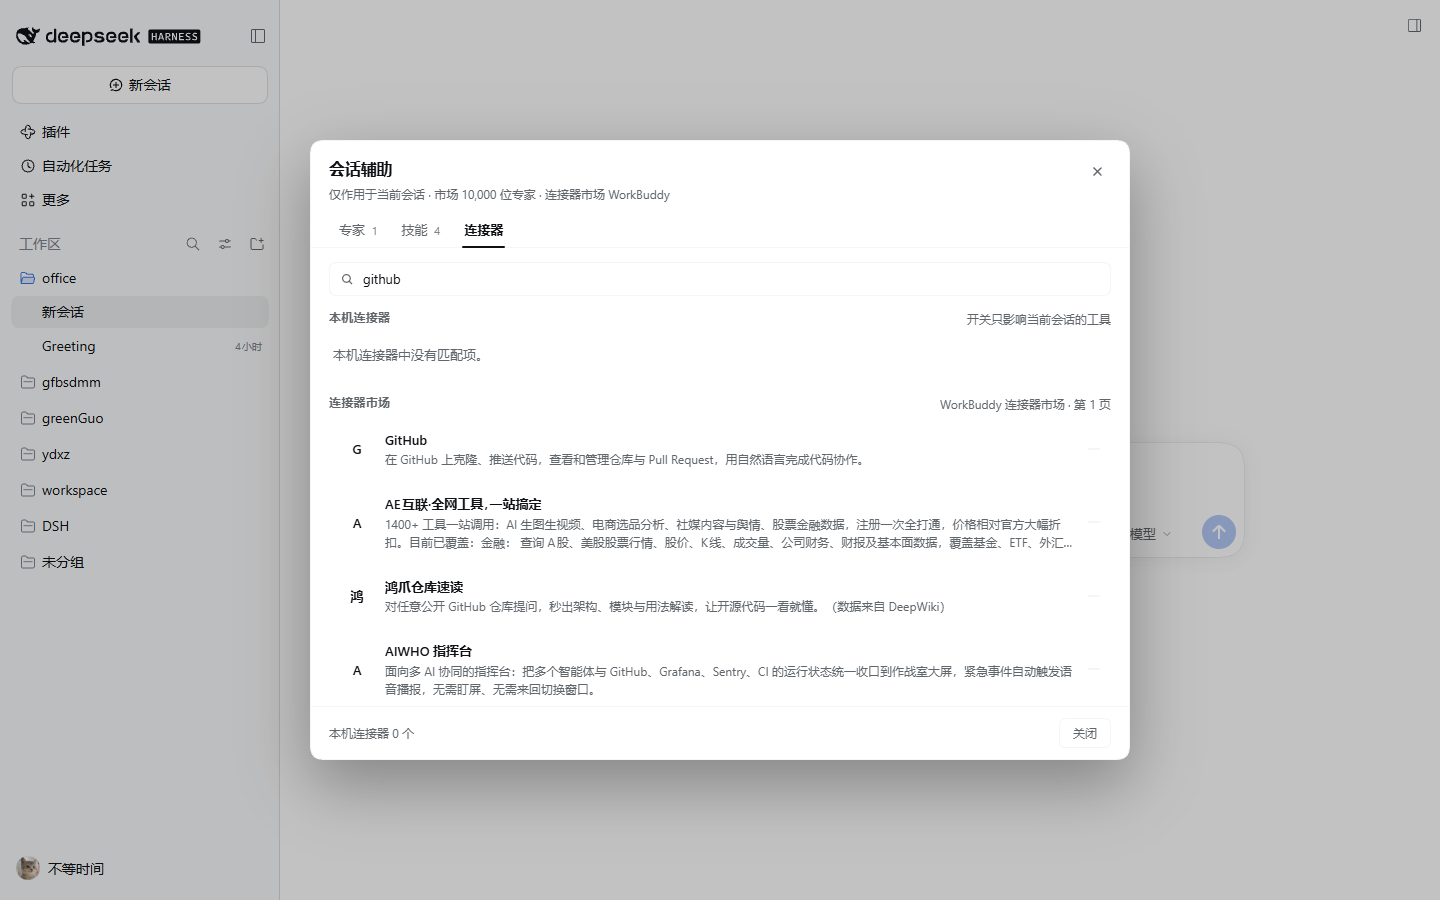
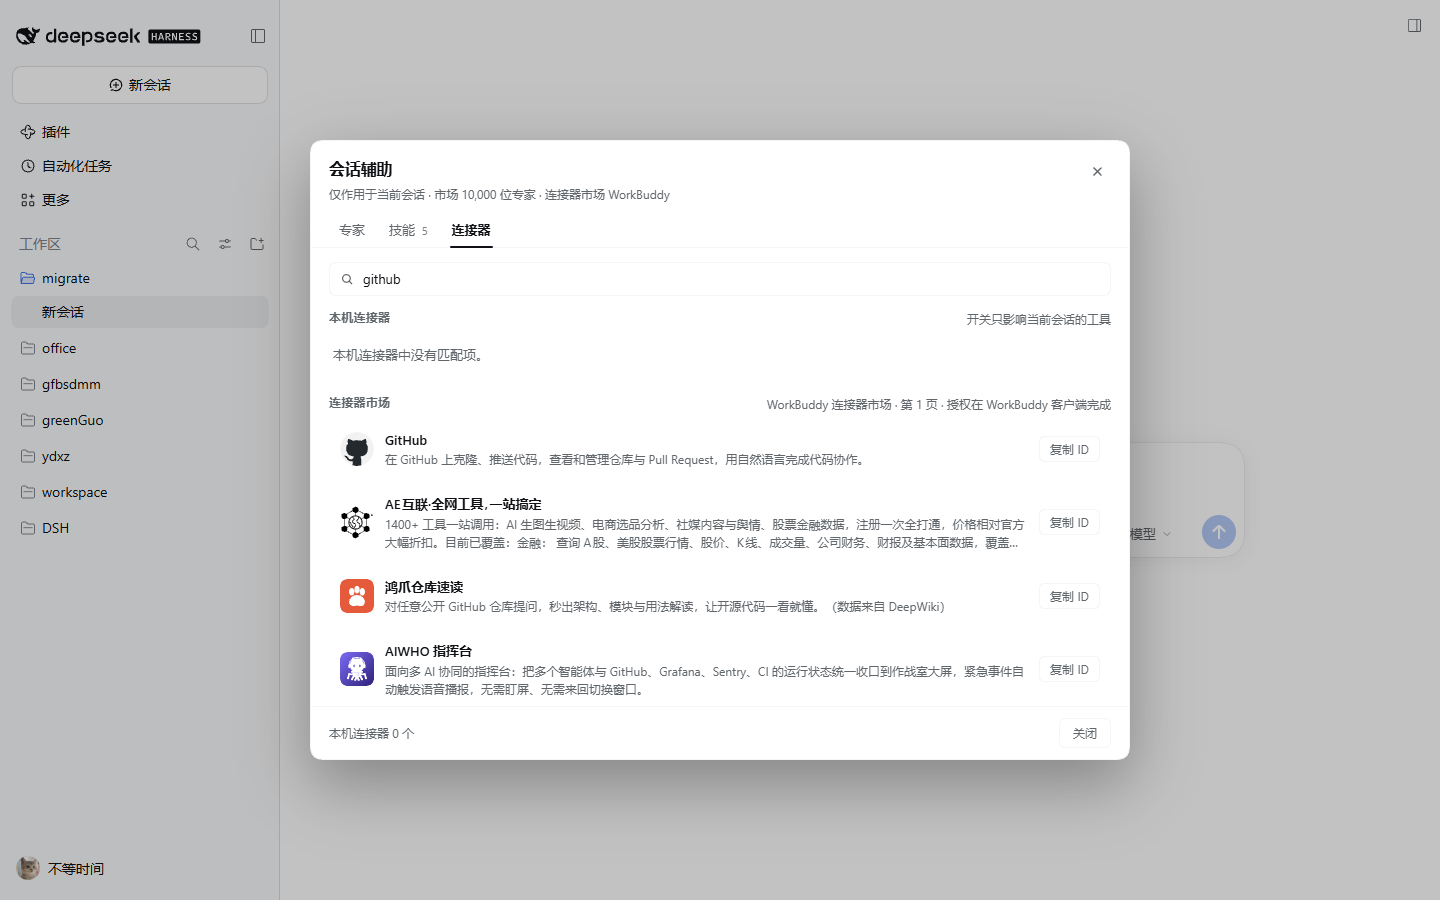
fix: release web routes on plugin reload and harden agent access

diff --git a/lib/client.js b/lib/client.js
@@ -374,8 +374,22 @@ window.__ModuleLoader__.load({
 
     function CatalogRow(props) {
       var item = props.item
+      var copiedPair = React.useState(false)
+      var copied = copiedPair[0]
+      var setCopied = copiedPair[1]
+      var copyId = function () {
+        try {
+          if (navigator !== null && navigator !== undefined && navigator.clipboard !== undefined) {
+            void navigator.clipboard.writeText(String(item.id ?? ''))
+          }
+        } catch (error) {
+          // Clipboard may be unavailable in a non-secure context.
+        }
+        setCopied(true)
+        setTimeout(function () { setCopied(false) }, 1600)
+      }
       return h('div', { className: 'wbh-conn' },
-        catalogIcon(item.name),
+        item.iconVisible ? h('div', { className: 'wbh-avatar' }, item.icon ? h('img', { src: item.icon, alt: '', loading: 'lazy' }) : h('span', null, initial(item.name))) : catalogIcon(item.name),
         h('div', { className: 'wbh-conn__text' },
           h('div', { className: 'wbh-conn__name' },
             h('span', { title: item.name }, item.name),
@@ -383,9 +397,11 @@ window.__ModuleLoader__.load({
             item.category ? h(Badge, null, item.category) : null,
             item.tools ? h(Badge, { kind: 'tools' }, item.tools + ' 工具') : null),
           h('div', { className: 'wbh-conn__desc', title: item.summary }, item.summary || item.vendor || '')),
-        item.homepage
-          ? h('a', { className: 'wbh-link', href: item.homepage, target: '_blank', rel: 'noopener noreferrer' }, '了解')
-          : h('span', { className: 'wbh-badge' }, item.vendor || ''))
+        item.action === 'copy'
+          ? h('button', { type: 'button', className: 'wbh-link', title: '复制连接器 ID：' + (item.id ?? ''), onClick: copyId }, copied ? '已复制' : '复制 ID')
+          : item.homepage
+            ? h('a', { className: 'wbh-link', href: item.homepage, target: '_blank', rel: 'noopener noreferrer' }, '了解')
+            : h('span', { className: 'wbh-badge' }, item.vendor || ''))
     }
 
     function PickerDialog(props) {
@@ -991,7 +1007,7 @@ window.__ModuleLoader__.load({
           h('div', { className: 'wbh-section__head' },
             h('h3', { className: 'wbh-section__title' }, '连接器市场'),
             h('span', { className: 'wbh-sub' }, catSource === 'workbuddy'
-              ? 'WorkBuddy 连接器市场 · 第 ' + catPage + ' 页'
+              ? 'WorkBuddy 连接器市场 · 第 ' + catPage + ' 页 · 授权在 WorkBuddy 客户端完成'
               : catSource === 'local' ? '本地快照（未登录 WorkBuddy）' : '')),
           catCategories.length === 0 ? null : h('div', { className: 'wbh-chips' },
             h('button', { type: 'button', className: 'wbh-chip', 'data-on': catCategory === null ? '1' : '0', onClick: function () { setCatCategory(null) } }, '全部'),
@@ -1010,7 +1026,22 @@ window.__ModuleLoader__.load({
               ? h('div', { className: 'wbh-empty wbh-empty--tight' }, '目录中没有匹配的连接器。')
               : h('div', { className: 'wbh-list' },
                 catItems.map(function (item) {
-                  return h(CatalogRow, { key: item.id, item: item })
+                  return h(CatalogRow, {
+                    key: item.id,
+                    item: {
+                      id: item.id,
+                      name: item.name,
+                      vendor: item.vendor,
+                      category: item.category,
+                      summary: item.summary,
+                      homepage: catSource === 'local' ? item.homepage : null,
+                      connected: item.connected,
+                      tools: item.tools,
+                      action: catSource === 'local' ? 'copy' : 'copy',
+                      iconVisible: catSource === 'workbuddy',
+                      icon: item.icon,
+                    },
+                  })
                 })),
           catHasMore
             ? h('div', { className: 'wbh-more' },

diff --git a/lib/webui.js b/lib/webui.js
@@ -167,6 +167,17 @@ export function registerWebUi(ctx, deps) {
   if (typeof ctx?.inject !== 'function') return
   const categories = createCategoryCache(deps.market)
   ctx.logger?.info?.('workbuddy-helper: registering web UI routes')
+  const routeDisposers = []
+  const releaseRoutes = () => {
+    while (routeDisposers.length > 0) {
+      const dispose = routeDisposers.pop()
+      try {
+        dispose()
+      } catch {
+        // A route may already have been removed by the host.
+      }
+    }
+  }
   try {
     ctx.inject(['webServer'], scoped => {
       const webServer = scoped?.webServer
@@ -174,7 +185,25 @@ export function registerWebUi(ctx, deps) {
         ctx.logger?.warn?.('workbuddy-helper: webServer.register is unavailable')
         return
       }
-      const register = webServer.register.bind(webServer)
+      // HMR / plugin reload tears down the old fiber but keeps the shared
+      // webServer alive. Dispose our previous routes first, then make sure the
+      // new scoped context releases these routes when it goes inactive;
+      // otherwise stale handlers keep answering with a disposed ctx and the
+      // panel sees "cannot get required service ... in inactive context".
+      releaseRoutes()
+      try {
+        if (typeof scoped.effect === 'function') {
+          scoped.effect(() => () => releaseRoutes(), 'workbuddy-helper: web routes')
+        }
+      } catch {
+        // Older hosts may not expose effect on the injected scope; the root
+        // context effect below still covers plugin unload.
+      }
+      const register = route => {
+        const dispose = webServer.register(route)
+        if (typeof dispose === 'function') routeDisposers.push(dispose)
+        return dispose
+      }
       try {
       const panelState = async sessionId => {
         const state = await deps.sessions.panelState(sessionId)
@@ -547,6 +576,13 @@ export function registerWebUi(ctx, deps) {
     })
   } catch (error) {
     ctx.logger?.warn?.('workbuddy-helper: web UI routes failed: %s', String(error))
+  }
+  try {
+    if (typeof ctx.effect === 'function') {
+      ctx.effect(() => () => releaseRoutes(), 'workbuddy-helper: dispose web routes')
+    }
+  } catch {
+    // The scoped effect above is the primary path.
   }
 }
 

diff --git a/lib/session.js b/lib/session.js
@@ -19,6 +19,24 @@ function defaultSkills() {
  * previous persona untouched.
  */
 export class SessionManager {
+  /** Agent registry access must never throw from a disposing plugin context. */
+  getAgent(sessionId) {
+    try {
+      return this.ctx.agents?.get?.(sessionId)
+    } catch {
+      return undefined
+    }
+  }
+
+  listAgents() {
+    try {
+      const listed = this.ctx.agents?.list?.()
+      return Array.isArray(listed) ? listed : []
+    } catch {
+      return []
+    }
+  }
+
   constructor(options) {
     this.ctx = options.ctx
     this.market = options.market
@@ -128,7 +146,7 @@ export class SessionManager {
       const before = structuredClone(state)
       const resolved = await this.resolveExpert(expertId)
       const pkg = await this.bundles.ensure(resolved.expert)
-      const agent = this.ctx.agents.get(sessionId)
+      const agent = this.getAgent(sessionId)
 
       state.expert = {
         id: resolved.expert.id,
@@ -240,7 +258,7 @@ export class SessionManager {
   }
 
   async listSkills(sessionId) {
-    const agent = this.ctx.agents.get(sessionId)
+    const agent = this.getAgent(sessionId)
     if (agent === undefined) throw new Error(`session is not live: ${sessionId}`)
     const state = await this.loadState(sessionId)
     const live = this.live.get(sessionId)
@@ -270,7 +288,7 @@ export class SessionManager {
   async panelState(sessionId) {
     const state = await this.loadState(sessionId)
     const live = this.live.get(sessionId)
-    const agent = this.ctx.agents.get(sessionId)
+    const agent = this.getAgent(sessionId)
     const cwd = agent?.session?.header?.cwd ?? process.cwd()
     let global = []
     try {
@@ -319,7 +337,7 @@ export class SessionManager {
   }
 
   async reconcile() {
-    for (const agent of this.ctx.agents.list()) {
+    for (const agent of this.listAgents()) {
       if (!this.live.has(agent.id)) {
         await this.onAgentCreated(agent).catch(() => undefined)
       }

diff --git a/lib/connectors.js b/lib/connectors.js
@@ -315,16 +315,11 @@ export function createConnectorController(ctx, options = {}) {
   function reapply(agent) {
     if (disposed) return
     if (agent !== undefined) return applyToAgent(agent)
+    // Only agents seen through lifecycle events are tracked. Calling
+    // ctx.get('agents') from a plugin scope that may already be inactive
+    // throws "cannot get required service ... in inactive context" during
+    // hot reloads, so never use the registry as a safety net here.
     for (const candidate of live) void applyToAgent(candidate)
-    try {
-      const registry = typeof ctx?.get === 'function' ? ctx.get('agents') : undefined
-      const listed = typeof registry?.list === 'function' ? registry.list() : []
-      if (Array.isArray(listed)) {
-        for (const candidate of listed) void applyToAgent(candidate)
-      }
-    } catch {
-      // The registry is optional; lifecycle events already track agents.
-    }
     return Promise.resolve()
   }
 

diff --git a/lib/portal.js b/lib/portal.js
@@ -51,7 +51,7 @@ function normalizeBuddyConnector(item) {
     version: typeof item?.version === 'string' ? item.version : null,
     homepage: typeof item?.homepage === 'string' ? item.homepage : null,
     tools: Number(item?.tool_count ?? 0) || 0,
-    connected: item?.connected === true,
+    connected: item?.connected === true || item?.is_connected === true,
     source: 'workbuddy',
   }
 }

diff --git a/docs/INSTALLATION-AND-TEST-REPORT.md b/docs/INSTALLATION-AND-TEST-REPORT.md
@@ -197,7 +197,7 @@ categories      -> categories / categoryId
 npm test
 ```
 
-结果：**26/26 通过**。新增覆盖：
+结果：**27/27 通过**。新增覆盖：
 
 - 在线市场字段映射；
 - `PortalMarket` 的 URL、Bearer 头、请求体、`get-by-ids`、分类；
@@ -349,7 +349,22 @@ tool_result:
 
 未执行：headless profile 没有 `DEEPSEEK_API_KEY`。工具管线、提示段、技能目录用本地 Messages 兼容假模型验证，不消耗真实额度。
 
-### 5.10 第三轮：会话辅助更名与 WorkBuddy 市场（v0.4.5）
+### 5.11 热更新残留路由事故（v0.4.6）
+
+用户更新后反馈：面板常驻 `cannot get required service "agents" in inactive context`、专家切换无响应、技能市场仍返回 404。
+
+根因不是 API 或 404 本身，而是 `webServer.register()` 返回的 disposer 被丢弃：插件热更新时旧 fiber 被销毁，但共享 webServer 上的旧路由仍在；浏览器拿到的是新 client bundle，命中的却是旧 handler（旧会话管理器的 `ctx.agents` 已失效 → 报错；旧路由表没有 skill-market → 404）。
+
+修复：
+
+1. 路由注册全部收集 disposer；作用域与插件根 ctx 双重 effect 在销毁时释放。
+2. 重新注册前先释放上一轮路由，避免 duplicate 异常。
+3. 移除 `ctx.get('agents')` 的“保险扫描”，会话管理器对 `agents` 的读取加防御性封装。
+4. 连接器市场条目由“了解 → GitHub”改为“复制 ID”，并显示 `is_connected`。
+
+验证：`npm test` 27/27（新增路由生命周期测试：二次注册不残留、卸载后路由表清空）；Web profile 冷启动 UI 冒烟无错误，热更新后 `/connectors` 与 `/skill-market` 仍返回 workbuddy 数据源。
+
+
 
 按用户反馈修复四项：
 

diff --git a/README.md b/README.md
@@ -21,11 +21,13 @@ DeepSeek Harness 插件：在当前会话内选择、切换、移除专家与技
 
 ![技能市场](docs/ui-15-skill-market.png)
 
-**连接器**：上半区是本机连接器插件（如 dsh-windows-mcp），开关只影响当前会话的工具；下半区「连接器市场」从 WorkBuddy 连接器市场拉取（支持名称/描述搜索），未登录时退回本地快照。
+**连接器**：上半区是本机连接器插件（如 dsh-windows-mcp），开关只影响当前会话的工具；下半区「连接器市场」从 WorkBuddy 连接器市场拉取（支持名称/描述搜索），显示来源图标与「已连接」状态，操作按钮为「复制 ID」（精确复制连接器 ID，不再误跳 GitHub）；未登录时退回本地快照。市场连接器的授权由 WorkBuddy 客户端管理，已连接后其工具即可在本会话使用。
 
 ![连接器市场](docs/ui-14-connector-market.png)
 
 深色模式：主按钮等控件使用单色反色方案，两个主题都可读。
+
+> 更新插件后请**完全重启 DSH**（不是只关闭会话）。插件热更新时若旧 webServer 路由未释放，会出现 `cannot get required service "agents" in inactive context`、专家切换无响应、技能市场 404。v0.4.6 起路由会随插件上下文释放，但当前进程里已残留的旧路由只有重启能清除。
 
 面板由同源的 `/dsh-workbuddy-helper/*` JSON 路由驱动，不启动额外端口，也不把 token 暴露给浏览器。
 

diff --git a/CHANGELOG.md b/CHANGELOG.md
@@ -1,5 +1,11 @@
 # Changelog
 
+## 0.4.6
+
+- 修复：插件热更新后旧 webServer 路由未释放，导致面板出现 `cannot get required service "agents" in inactive context`、专家切换无响应、技能市场 404。现在路由随插件/作用域生命周期释放，重新注册前先清理旧路由。
+- 加固：会话管理器对 `agents` 的读取做防御性封装，失效上下文不再把错误抛到面板。
+- 连接器市场条目显示「已连接」状态与来源图标；“了解”改为“复制 ID”，避免误跳 GitHub。
+
 ## 0.4.5
 
 - 修复：技能市场路由常量缺失导致面板内始终 404（API 直连正常）。
